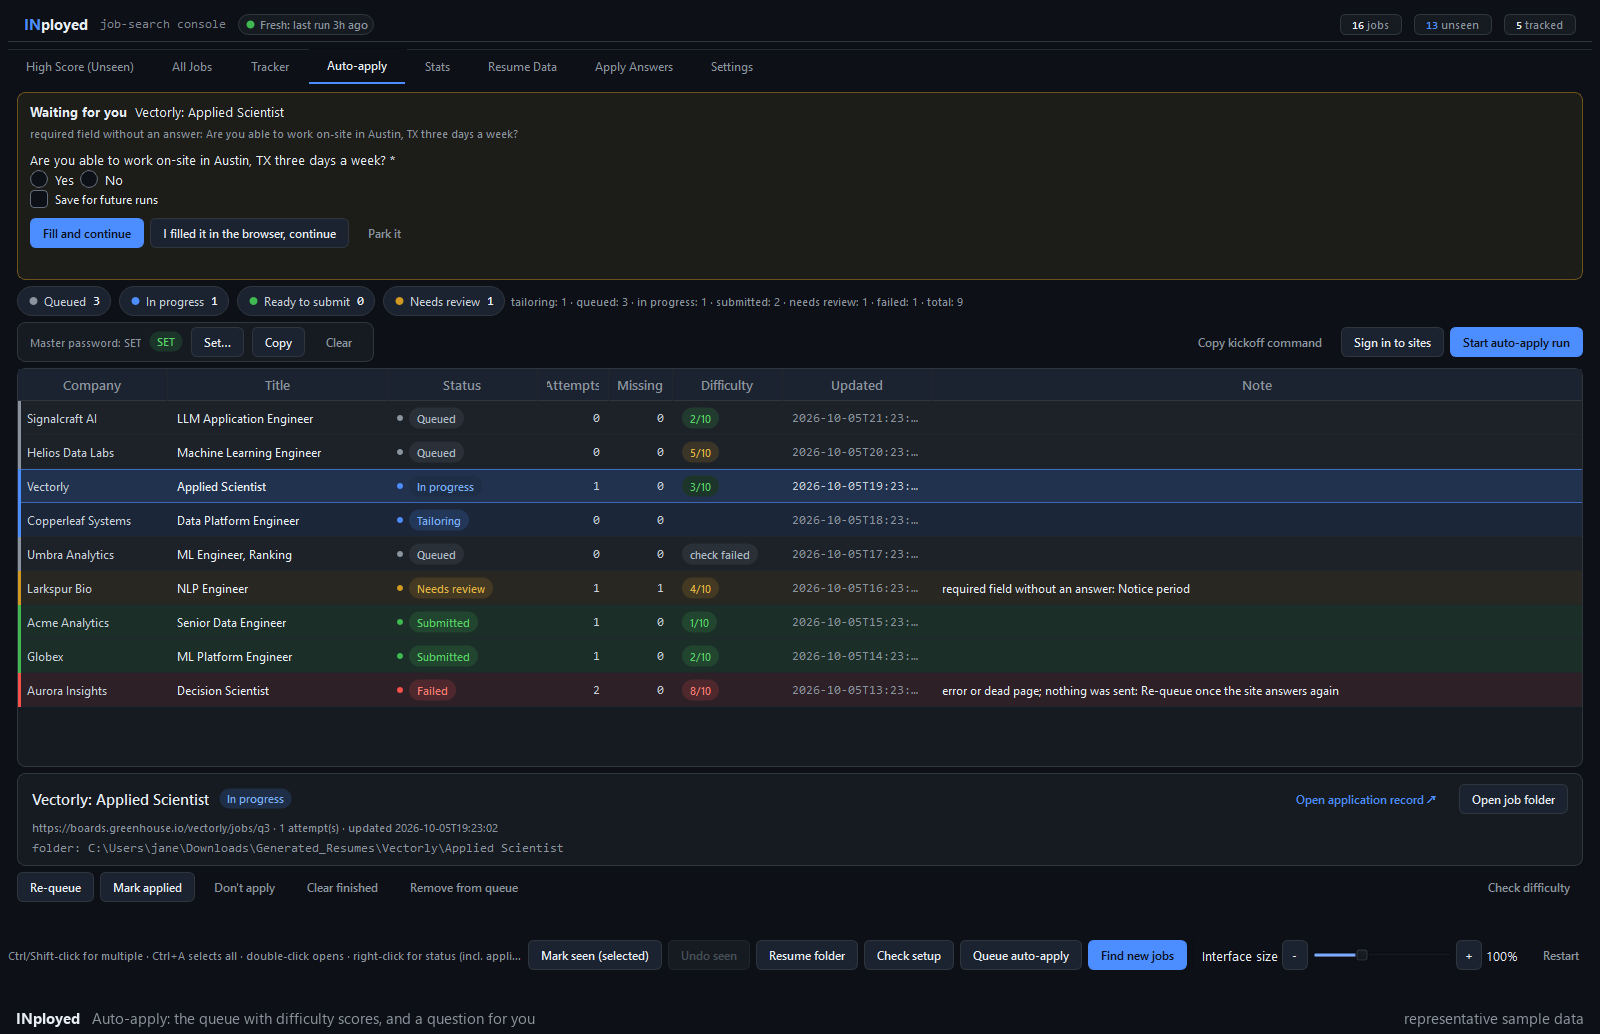
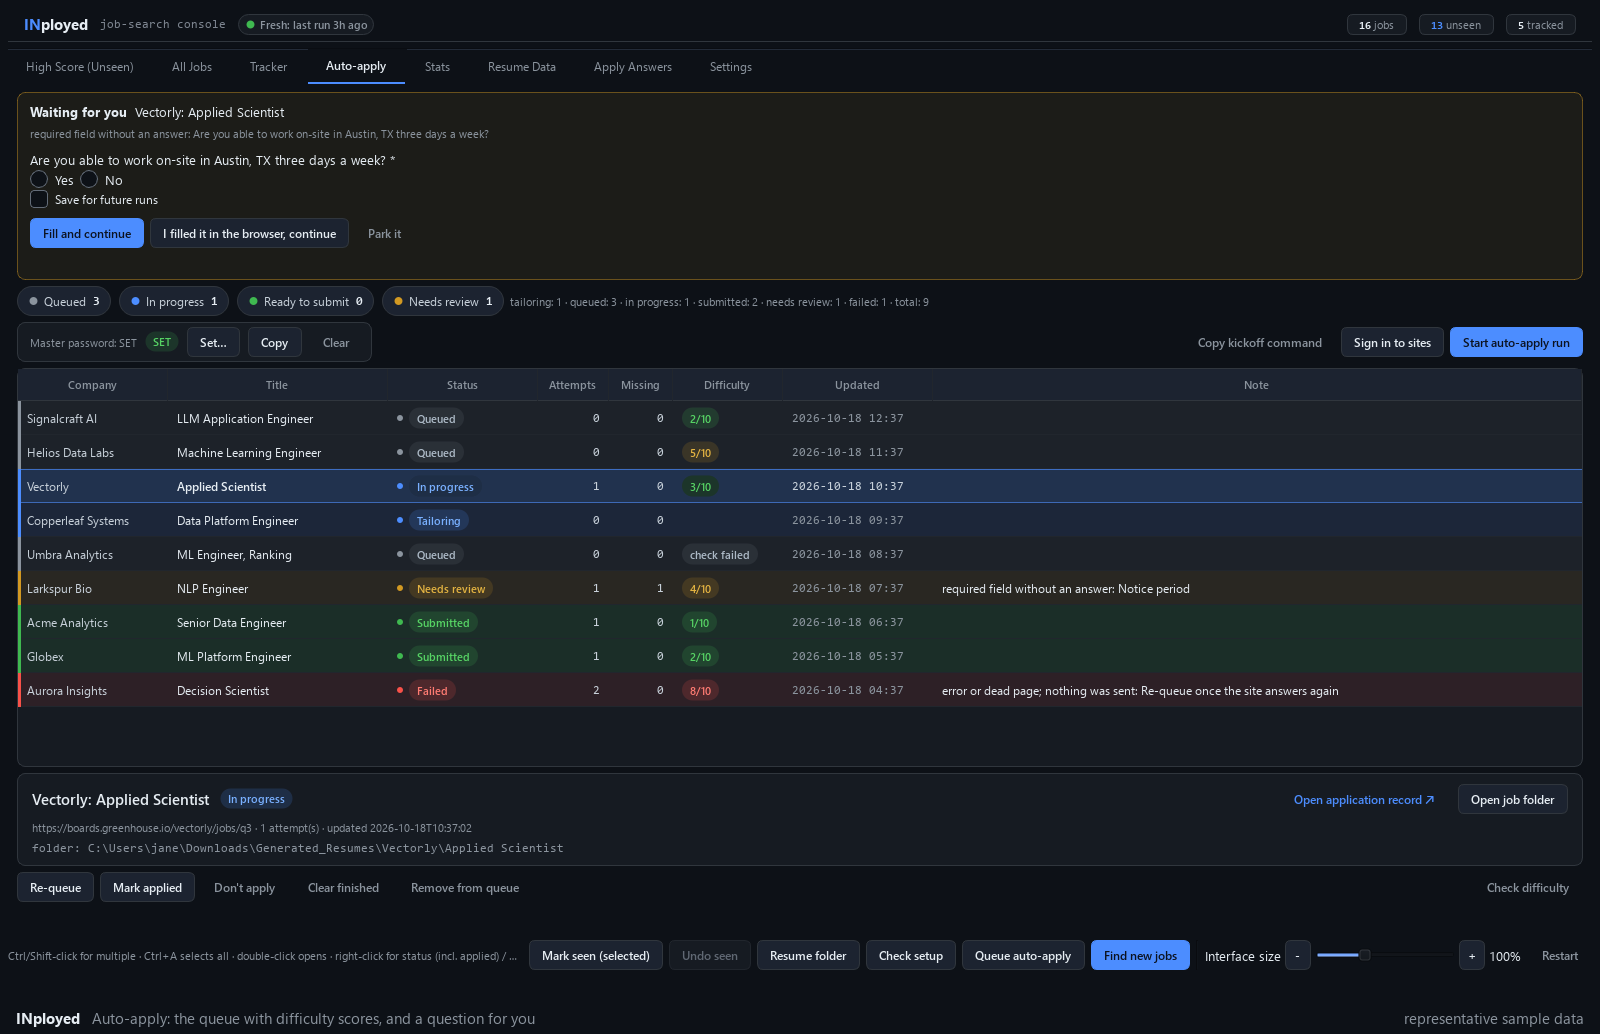
docs(media): re-shoot the stills, demo GIF and social card on the current UI
The four README stills, docs/demo.gif and docs/social-preview.png now show
the interface fixes in this release: drawn combo and spin arrows, check
marks, header fonts, contrast, the bottom bar, Tracker Export... / Import...
and the short queue Updated stamp.

The capture harness had two faults the new frames exposed. The offscreen
font database opens a C stdio stream per face and passed the runtime's
512-stream limit partway through a run, so the Tracker's check mark drew
as a box and the 150% pass fell back to a serif font; the harness now
raises the limit before Qt loads a font. The synthetic answer store left
every answer unconfirmed, so the apply sheet's Address block was empty and
every Apply Answers row read "Forms will get nothing"; set answers are
now confirmed, as in a set-up store.

Alt text names what the new frames add: the queue's Updated column, the
Tracker's Export... / Import..., and the GIF's description toggle, cleared
search and ticked Save for future runs.

diff --git a/scripts/ui_screenshots.py b/scripts/ui_screenshots.py
@@ -26,6 +26,17 @@ os.environ.setdefault("QT_QPA_PLATFORM", "offscreen")
 if os.name == "nt":
     windir = os.environ.get("WINDIR", r"C:\Windows")
     os.environ.setdefault("QT_QPA_FONTDIR", str(Path(windir) / "Fonts"))
+    # That freetype database opens a C stdio stream per font face it loads, and
+    # the C runtime allows 512 by default. A run that walks every tab at three
+    # scales passes that limit, after which faces silently fail to open: the
+    # Tracker's check mark turned into a box at 100% and the 150% pass fell
+    # back to a serif font full of boxes. Raise the limit before Qt loads a font.
+    try:
+        import ctypes
+
+        ctypes.CDLL("ucrtbase")._setmaxstdio(8192)
+    except (OSError, AttributeError):
+        pass
 REPO = Path(__file__).resolve().parent.parent
 
 # Keep the maintainer's real `.env` out of this process, BEFORE anything under
@@ -439,9 +450,15 @@ def _sanitize_personal_tabs(tmp_dir: Path) -> None:
         "address_city": "Springfield", "address_state": "Illinois", "address_zip": "00000",
         "address_country": "United States", "how_did_you_hear": "LinkedIn",
     }
+    # Every answer that has a value is marked Confirmed, as a set-up user's store
+    # is: the apply sheet and the run read only confirmed answers, so without this
+    # the sheet's Address block and Standard answers came out empty and every
+    # Apply Answers row said "Forms will get nothing until you confirm".
     for e in answers:
         if e["id"] in fictional:
             e["answer"] = fictional[e["id"]]
+        if str(e.get("answer") or "").strip():
+            e["confirmed"] = True
     _apply_answers.save(answers, path=store)
     _apply_answers.STORE_PATH = store
     # Settings tab: read every backing file from the temp dir, never the real

diff --git a/README.md b/README.md
@@ -44,9 +44,9 @@ Four pieces do the work:
 
 | Triage: **High Score** | Apply: **Auto-apply** |
 |---|---|
-| ![The High Score tab. Thirteen ranked postings, each row tinted by recommendation and carrying a score badge, a deep-score bar, and an Apply, Consider, Tailored or Tailor failed pill; a legend under the table maps the tints back to those states. The selected job's detail card shows the model's reason, strengths and gaps beside the Tailor résumé and Apply buttons.](docs/dashboard.png) | ![The Auto-apply tab. A Waiting for you card at the top asks one question a run could not answer from the saved answers, with its options as radio buttons, a Save for future runs box, and the Fill and continue, I filled it in the browser, continue, and Park it buttons. Below it the queue table lists each job's company, title, status pill, attempts, missing answers and a Difficulty score from 1 to 10. Start auto-apply run sits above the table, and Check difficulty sits under the selected job's details.](docs/auto-apply.png) |
+| ![The High Score tab. Thirteen ranked postings, each row tinted by recommendation and carrying a score badge, a deep-score bar, and an Apply, Consider, Tailored or Tailor failed pill; a legend under the table maps the tints back to those states. The selected job's detail card shows the model's reason, strengths and gaps beside the Tailor résumé and Apply buttons.](docs/dashboard.png) | ![The Auto-apply tab. A Waiting for you card at the top asks one question a run could not answer from the saved answers, with its options as radio buttons, a Save for future runs box, and the Fill and continue, I filled it in the browser, continue, and Park it buttons. Below it the queue table lists each job's company, title, status pill, attempts, missing answers, a Difficulty score from 1 to 10 and the time it last changed. Start auto-apply run sits above the table, and Check difficulty sits under the selected job's details.](docs/auto-apply.png) |
 | Your source of truth: **Resume Data** | Follow through: **Tracker** |
-| ![The Resume Data tab. A form editor over master_experience.yaml: name, email, phone, location, LinkedIn and GitHub above an Experience entry whose achievement is broken into what, angles and impact atom fields. A banner warns that resume.md is older than this data.](docs/resume-data.png) | ![The Tracker tab. Filter chips count five applications by state: Applied 2, Interviewing 1, Offer 1, Rejected 1, Follow-up due 1. The table lists status, updated and applied dates, days elapsed and follow-up state, and the detail card for the oldest application, unanswered for 88 days, spells out a NEXT STEP: send a follow-up note.](docs/tracker.png) |
+| ![The Resume Data tab. A form editor over master_experience.yaml: name, email, phone, location, LinkedIn and GitHub above an Experience entry whose achievement is broken into what, angles and impact atom fields. A banner warns that resume.md is older than this data.](docs/resume-data.png) | ![The Tracker tab. Filter chips count five applications by state: Applied 2, Interviewing 1, Offer 1, Rejected 1, Follow-up due 1. The table lists status, updated and applied dates, days elapsed and follow-up state, and the detail card for the oldest application, unanswered for 88 days, spells out a NEXT STEP: send a follow-up note. Export… and Import… sit in the toolbar.](docs/tracker.png) |
 
 *(All four use sample data: fictional companies, a fictional `master_experience.yaml`,
 and placeholder keys.)*
@@ -264,7 +264,7 @@ The loop: rank a scored run, read one posting's analysis, filter the list, open 
 apply sheet the tailor wrote, answer a paused auto-apply question, then walk the tracker
 and the data every bullet comes from.
 
-![Animated tour of the INployed dashboard. It starts on High Score and changes the selected row so the detail card swaps its reason, strengths and gaps; types a search that filters the ranked table live; opens the apply sheet the tailor wrote for one job; then moves to the Auto-apply tab, where the queue shows each job's status and difficulty score and a Waiting for you card asks one question, gets a Yes, and hands it back to the run with Fill and continue; then walks the Tracker with a follow-up due, Resume Data's achievement atoms, Apply Answers, and the Settings tab's Jev and Auto-apply sections.](docs/demo.gif)
+![Animated tour of the INployed dashboard. It starts on High Score and changes the selected row so the detail card swaps its reason, strengths and gaps; opens the posting's description and closes it; types a search that filters the ranked table live, then clears it; opens the apply sheet the tailor wrote for one job; then moves to the Auto-apply tab, where the queue shows each job's status and difficulty score and a Waiting for you card asks one question, gets a Yes with Save for future runs ticked, and hands it back to the run with Fill and continue; then walks the Tracker with a follow-up due, Resume Data's achievement atoms, Apply Answers, and the Settings tab's Jev and Auto-apply sections.](docs/demo.gif)
 
 *(Shown with sample data.)*
 
